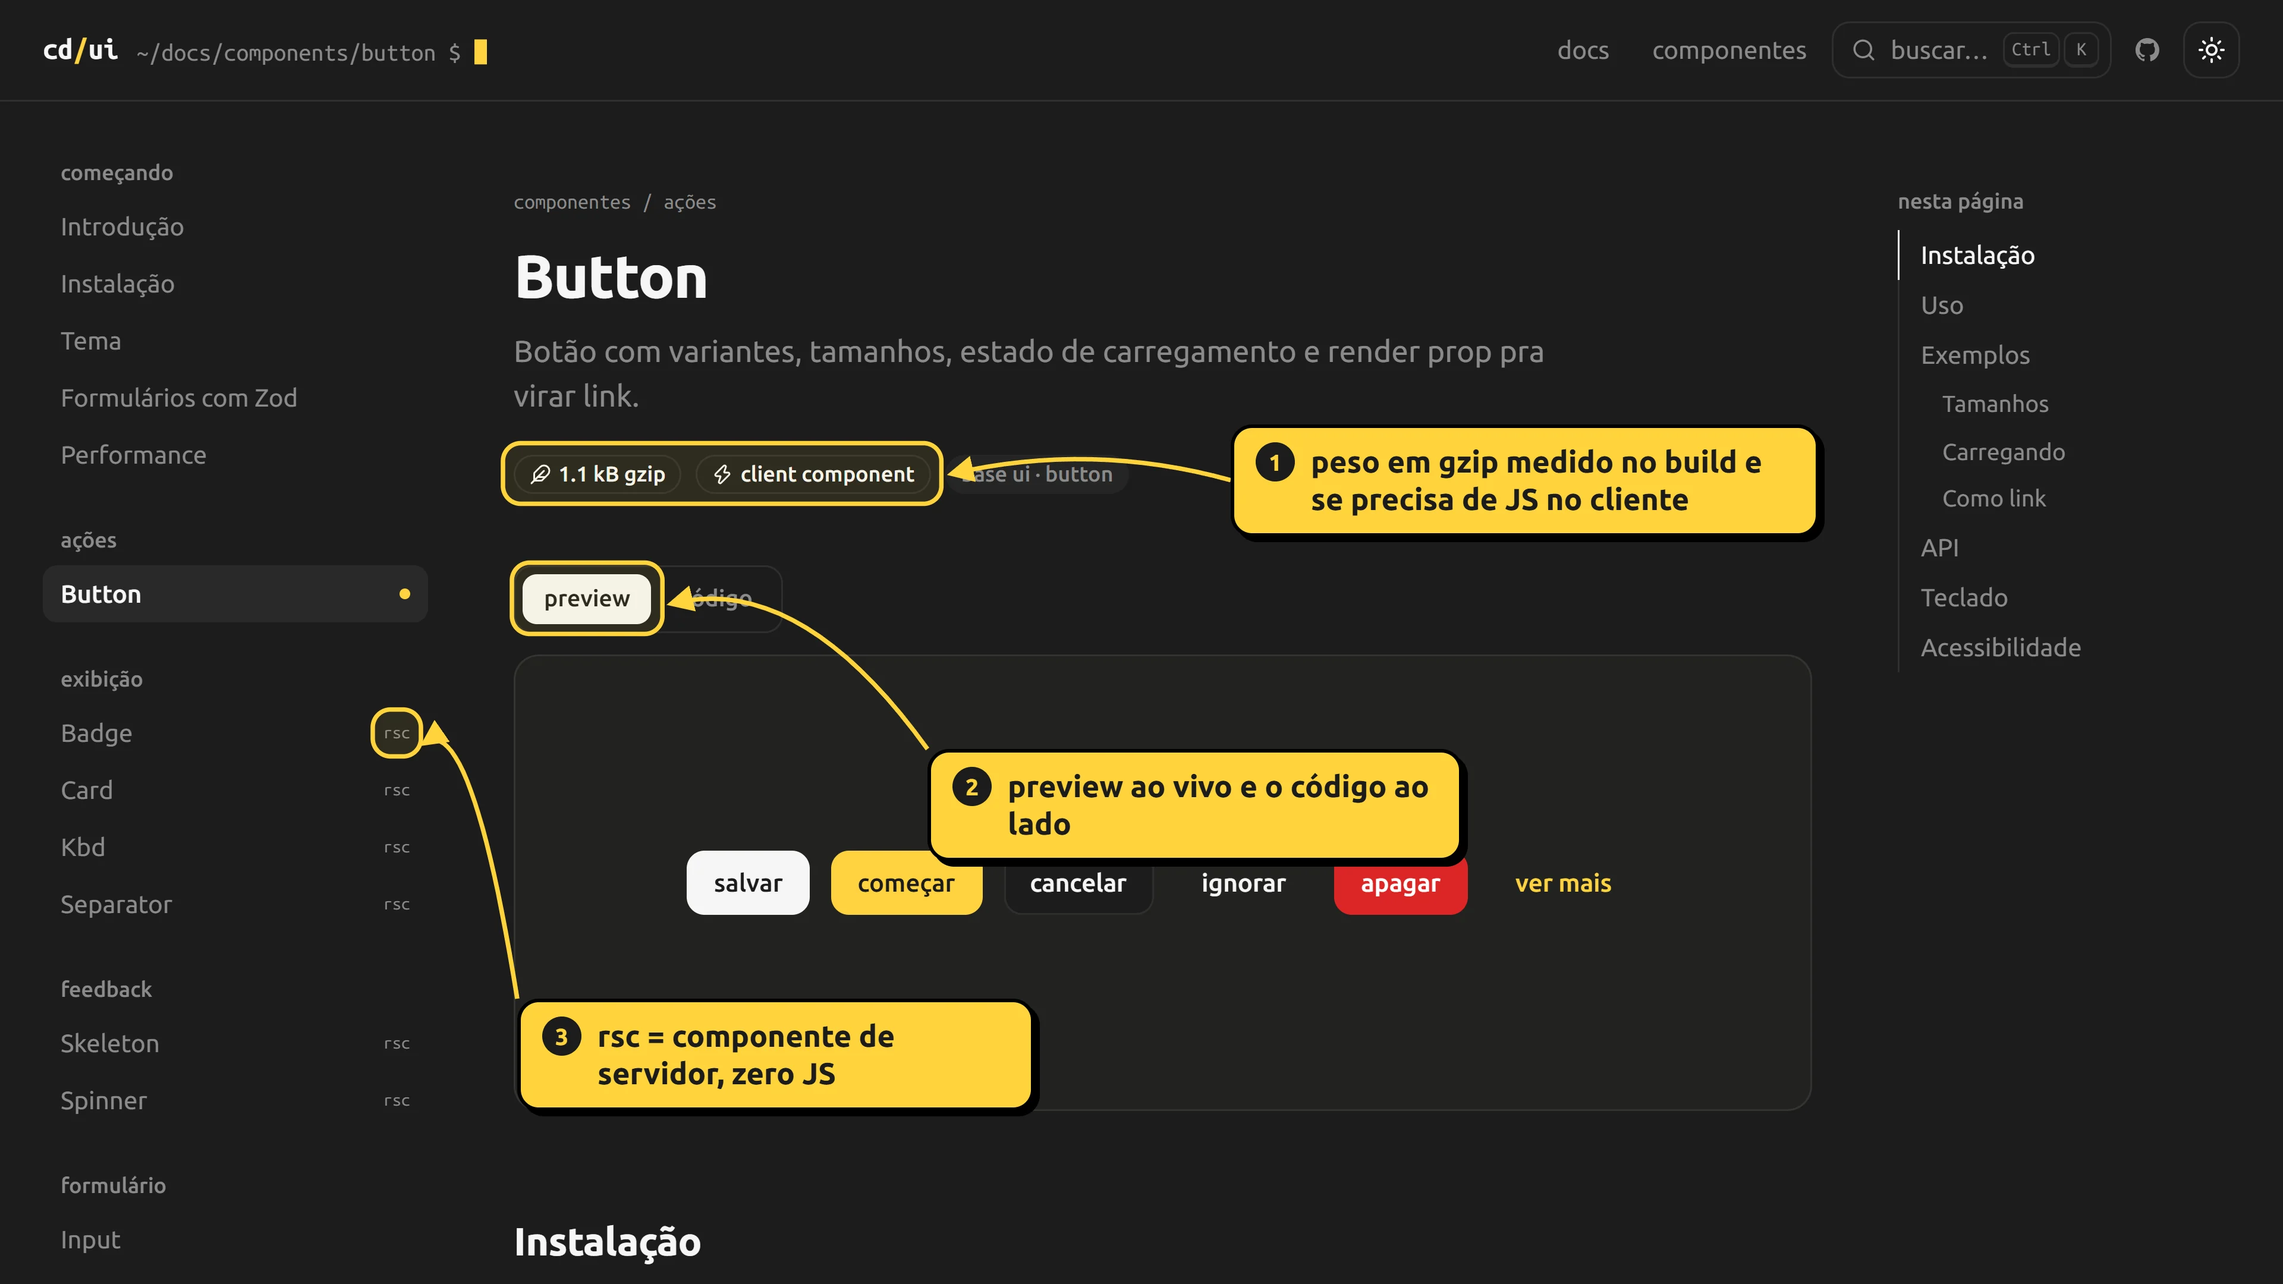
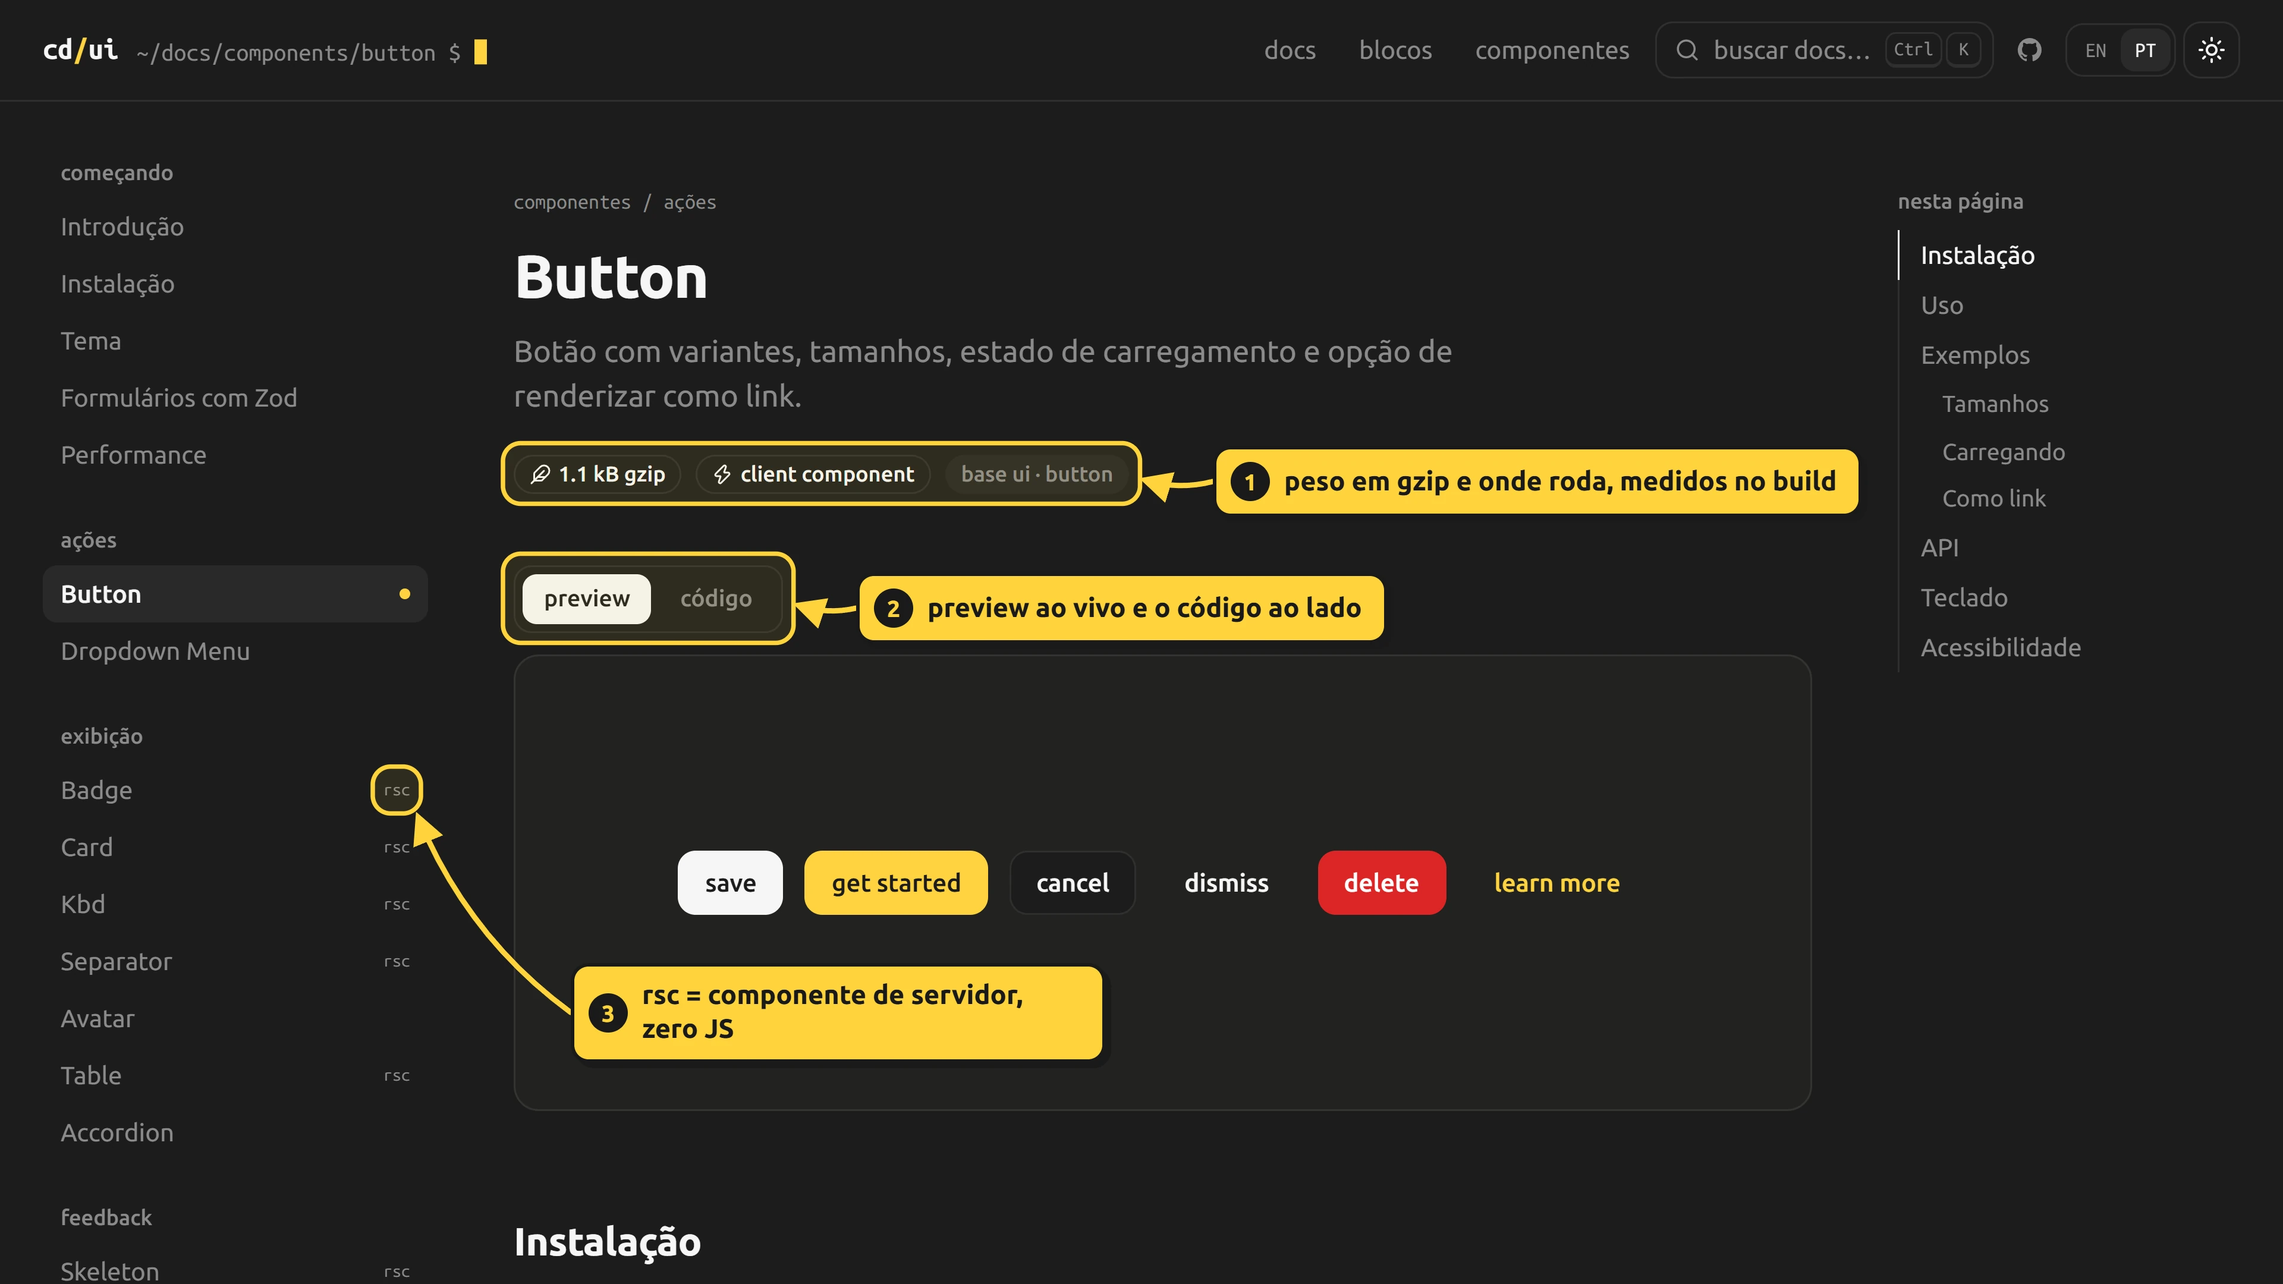
Refresh cd/ui case study: 27 components, blocks, new annotated prints; tighter article typography

diff --git a/src/app/globals.css b/src/app/globals.css
@@ -281,7 +281,11 @@
 		@apply text-2xl;
 	}
 	.markdown h2 {
-		@apply text-xl;
+		@apply mt-14 text-xl;
+	}
+	/* Título logo abaixo de título: sem o respiro de seção, senão o par vira um buraco. */
+	.markdown :is(h2, h3) + :is(h2, h3) {
+		@apply mt-4;
 	}
 	.markdown h3 {
 		@apply text-lg;
@@ -314,7 +318,7 @@
 		@apply border-l pl-4 text-muted-foreground italic;
 	}
 	.markdown :not(pre) > code {
-		@apply rounded-md bg-accent px-1.5 py-0.5 text-[0.9em];
+		@apply box-decoration-clone rounded-md bg-accent px-1 py-0.5 text-[0.9em] leading-none;
 	}
 	.markdown pre {
 		@apply overflow-x-auto rounded-xl border bg-card p-4 text-sm leading-6;
@@ -330,11 +334,18 @@
 		@apply flex items-center justify-between gap-2 border-b py-1 pr-1 pl-4 font-mono text-muted-foreground text-xs;
 	}
 	.markdown table {
-		@apply block w-full overflow-x-auto text-sm;
+		@apply block w-full overflow-x-auto text-sm tabular-nums;
 	}
+	/* Tabela como texto: só linhas horizontais, cabeçalho discreto, primeira coluna alinhada com a coluna do texto. */
 	.markdown th,
 	.markdown td {
-		@apply border px-3 py-1.5 text-left;
+		@apply border-b px-3 py-1.5 text-left;
+	}
+	.markdown :is(th, td):first-child {
+		@apply pl-0;
+	}
+	.markdown th {
+		@apply font-medium text-muted-foreground;
 	}
 	.markdown hr {
 		@apply my-8 border-border;

diff --git a/src/components/markdown.tsx b/src/components/markdown.tsx
@@ -72,7 +72,7 @@ function enhance(copy?: CopyLabels): Components {
 			return (
 				<div className="code">
 					<div className="code-bar">
-						<span>{lang}</span>
+						<span>{lang !== "text" && lang}</span>
 						{copy && (
 							<CodeCopy
 								done={copy.done}

diff --git a/content/projetos/cd-ui.pt.md b/content/projetos/cd-ui.pt.md
@@ -1,8 +1,8 @@
 ## tl;dr
 
-O cd/ui reúne 17 componentes React (Base UI + Tailwind v4) num **registry do shadcn**. Você instala o código direto no projeto e pode adaptar como quiser. O build mede o tamanho de cada componente em gzip; a média atual fica em cerca de 540 B.
+O cd/ui reúne 27 componentes React e 15 blocos (telas prontas), tudo em Base UI + Tailwind v4, num **registry do shadcn**. Você instala o código direto no projeto e pode adaptar como quiser. O build mede o tamanho de cada componente em gzip; a média atual fica em cerca de 600 B.
 
-[docs](https://cd-ui.vercel.app/docs) · [performance](https://cd-ui.vercel.app/docs/performance) · [código](https://github.com/di0rio/cd-ui)
+[docs](https://cd-ui.vercel.app/docs) · [blocos](https://cd-ui.vercel.app/blocks) · [performance](https://cd-ui.vercel.app/docs/performance) · [código](https://github.com/di0rio/cd-ui)
 
 ## o problema
 
@@ -46,15 +46,25 @@ npx shadcn@latest add @cd/button @cd/dialog
 
 as dependências (Base UI, Zod quando precisa) e os outros componentes necessários vêm juntos. e a home já mostra a ideia do projeto.
 
-![home do cd/ui: o prompt mostra a rota atual, ⌘K abre a busca, os bytes de cada componente são medidos no build e a instalação é pelo registry](/projects/cd-ui-home.webp)
+![home do cd/ui: o prompt mostra a rota atual, Ctrl K abre a busca e a média de 600 B em gzip é medida no build](/projects/cd-ui-home.webp)
 
 cada componente tem uma página própria, com preview, código, API, teclas e notas de acessibilidade. o selo de tamanho e o selo client/server saem da medição do build.
 
-![página do Button nas docs: selo com o tamanho em gzip, selo client ou servidor, abas de preview e código e o comando de instalação](/projects/cd-ui-docs.webp)
+![página do Button nas docs: selos com o tamanho em gzip e onde roda, abas de preview e código e o marcador rsc na barra lateral](/projects/cd-ui-docs.webp)
+
+além dos componentes, o cd/ui tem 15 blocos: telas inteiras prontas (5 de autenticação, 7 de marketing e 3 de app, como login, hero, preços, FAQ e configurações), montadas só com os componentes da biblioteca. um bloco instala com um comando e leva junto os componentes que usa:
+
+```bash
+npx shadcn@latest add https://cd-ui.vercel.app/r/login-01.json
+```
+
+a página de cada bloco mostra o preview em desktop, tablet e celular, o código e abre em tela cheia. as docs e os blocos existem em português e em inglês.
+
+![página do bloco login-01: o comando de instalação, as abas de preview e código com os tamanhos desktop, tablet e celular e o link pra abrir em tela cheia](/projects/cd-ui-blocks.webp)
 
 ## como funciona por trás
 
-o repositório tem duas fontes de verdade: os arquivos em `src/registry/cd/ui/*.tsx` (o que é distribuído) e o `src/docs/catalog.json` (nome, título, categoria e descrição de cada componente). o build lê os dois e gera tudo o que o site e a CLI precisam.
+o repositório tem duas fontes de verdade: os arquivos em `src/registry/cd/ui/*.tsx` (o que é distribuído) e o `src/docs/catalog.json` (nome, título, categoria e descrição de cada componente). os blocos seguem o mesmo esquema, em `src/registry/cd/blocks` e `src/blocks/catalog.json`. o build lê tudo isso e gera o que o site e a CLI precisam.
 
 ```text
 src/registry/cd/ui/*.tsx ─┬─► build-registry.mjs ─► registry.json ─► shadcn build ─► public/r/*.json
@@ -79,7 +89,15 @@ function importsOf(file) {
 
 o que não é `@/` nem `react` vira dependência npm. o que é `@/registry/cd/ui/outro` vira dependência de registry (a URL do outro componente). o item `theme` copia os tokens do `globals.css`, os blocos `:root` e `.dark`.
 
-resultado: se o componente passa a importar outra coisa, o registry já sabe. não tem como esquecer de atualizar uma lista.
+resultado: se o componente passa a importar outra coisa, o registry já sabe. não tem como esquecer de atualizar uma lista. o mesmo vale pros blocos: os componentes que eles importam viram dependências de registry, então instalar um bloco instala tudo o que ele usa.
+
+### o que aprendi instalando num projeto de verdade
+
+depois de instalar o cd/ui num projeto de fora, apareceram três problemas que o meu próprio site não mostrava:
+
+- **o `cn` era o do shadcn.** sem uma URL pro `utils`, o shadcn cai no item embutido dele, que instala `export { cn } from "cn"`. agora o cd/ui entrega o próprio item `utils` (clsx + tailwind-merge) e todo componente depende dele.
+- **Server Component não chamava `buttonVariants`.** ele morava no `button.tsx`, que é `"use client"`, e uma função exportada de um módulo client não roda no servidor. mudou pra `button-variants.ts`, sem `"use client"`, e o `button.tsx` só reexporta. no registry, arquivos irmãos que o componente importa e que não estão no catálogo viajam no mesmo item.
+- **os blocos importam do caminho do registry.** eles usam `@/registry/cd/ui/button` e a CLI reescreve esse caminho pro alias do `components.json` do projeto de quem instala.
 
 ### o peso é medido, não chutado
 
@@ -107,29 +125,39 @@ o mesmo script marca cada componente como client ou servidor, só olhando se o a
 client: /^["']use client["']/.test(source),
 ```
 
-da medição saem os números do site. os 17 componentes, do menor ao maior:
+da medição saem os números do site. os 27 componentes, do menor ao maior:
 
 | componente | gzip | roda onde |
 | --- | --- | --- |
 | skeleton | 234 B | servidor |
 | kbd | 282 B | servidor |
-| separator | 285 B | servidor |
+| separator | 284 B | servidor |
 | card | 377 B | servidor |
-| spinner | 400 B | servidor |
-| input | 438 B | client |
+| avatar | 383 B | client |
+| spinner | 398 B | servidor |
 | textarea | 445 B | client |
 | field | 451 B | client |
 | badge | 453 B | servidor |
 | switch | 474 B | client |
+| progress | 475 B | client |
 | tooltip | 482 B | client |
+| input | 516 B | client |
+| alert | 530 B | servidor |
+| radio-group | 535 B | client |
 | form | 553 B | client |
+| table | 586 B | servidor |
+| popover | 588 B | client |
 | tabs | 628 B | client |
+| slider | 668 B | client |
 | checkbox | 702 B | client |
-| dialog | 910 B | client |
+| accordion | 721 B | client |
+| dialog | 945 B | client |
 | select | 990 B | client |
 | button | 1,1 kB | client |
+| dropdown-menu | 1,1 kB | client |
+| toast | 1,3 kB | client |
 
-média de cerca de 540 B. 6 dos 17 (badge, card, kbd, separator, skeleton e spinner) não mandam JS.
+média de cerca de 600 B. 8 dos 27 (alert, badge, card, kbd, separator, skeleton, spinner e table) não mandam JS.
 
 ### formulário com Zod sem carregar o Zod inteiro
 
@@ -182,6 +210,6 @@ const schema = z.object({
 
 ## status e próximos passos
 
-o cd/ui está na v0.2, com 17 componentes, tema claro e escuro e o site de docs no ar. um detalhe pra ser honesto sobre a medição: ela conta o código do cd/ui, não o Base UI nem o Zod que vêm junto.
+o cd/ui está na v0.2, com 27 componentes, 15 blocos, tema claro e escuro e o site de docs no ar, em português e inglês. é open source: licença MIT, guia de contribuição e CI que roda lint, tipos e build em todo pull request. um detalhe pra ser honesto sobre a medição: ela conta o código do cd/ui, não o Base UI nem o Zod que vêm junto.
 
 pra adicionar um componente o caminho é curto: o arquivo em `src/registry/cd/ui`, a entrada no catálogo, os exemplos e a documentação, e `bun run registry:build` gera o resto.

diff --git a/content/projetos/cd-ui.en.md b/content/projetos/cd-ui.en.md
@@ -1,8 +1,8 @@
 ## tl;dr
 
-cd/ui ships 17 React components (Base UI + Tailwind v4) as a **shadcn registry**. Install the code into your project and adapt it as you like. Every build measures each component’s gzip size; the current average is about 540 B.
+cd/ui ships 27 React components and 15 blocks (ready-made screens), all on Base UI + Tailwind v4, as a **shadcn registry**. Install the code into your project and adapt it as you like. Every build measures each component’s gzip size; the current average is about 600 B.
 
-[docs](https://cd-ui.vercel.app/docs) · [performance](https://cd-ui.vercel.app/docs/performance) · [code](https://github.com/di0rio/cd-ui)
+[docs](https://cd-ui.vercel.app/docs) · [blocks](https://cd-ui.vercel.app/blocks) · [performance](https://cd-ui.vercel.app/docs/performance) · [code](https://github.com/di0rio/cd-ui)
 
 ## the problem
 
@@ -46,15 +46,25 @@ npx shadcn@latest add @cd/button @cd/dialog
 
 the dependencies (Base UI, Zod when needed) and the other components it needs come along. and the home page already shows the idea of the project.
 
-![cd/ui home: the prompt shows the current route, ⌘K opens search, each component's bytes are measured at build time and install goes through the registry](/projects/cd-ui-home.webp)
+![cd/ui home: the prompt shows the current route, Ctrl K opens search and the 600 B gzip average is measured at build time](/projects/cd-ui-home.webp)
 
 every component has its own page, with preview, code, API, keys and accessibility notes. the size badge and the client/server badge come from the build measurement.
 
-![the Button docs page: a gzip size badge, a client or server badge, preview and code tabs and the install command](/projects/cd-ui-docs.webp)
+![the Button docs page: badges with the gzip size and where it runs, preview and code tabs and the rsc marker in the sidebar](/projects/cd-ui-docs.webp)
+
+besides the components, cd/ui has 15 blocks: complete ready-made screens (5 for auth, 7 for marketing and 3 for apps, like login, hero, pricing, FAQ and settings), built only from the library's own components. a block installs with one command and brings the components it uses along:
+
+```bash
+npx shadcn@latest add https://cd-ui.vercel.app/r/login-01.json
+```
+
+each block page shows the preview at desktop, tablet and phone sizes, the code, and opens full screen. the docs and the blocks exist in Portuguese and in English.
+
+![the login-01 block page: the install command, the preview and code tabs with desktop, tablet and phone sizes and the link to open full screen](/projects/cd-ui-blocks.webp)
 
 ## how it works under the hood
 
-the repository has two sources of truth: the files in `src/registry/cd/ui/*.tsx` (what gets distributed) and `src/docs/catalog.json` (name, title, category and description of each component). the build reads both and generates everything the site and the CLI need.
+the repository has two sources of truth: the files in `src/registry/cd/ui/*.tsx` (what gets distributed) and `src/docs/catalog.json` (name, title, category and description of each component). blocks follow the same scheme, in `src/registry/cd/blocks` and `src/blocks/catalog.json`. the build reads all of it and generates what the site and the CLI need.
 
 ```text
 src/registry/cd/ui/*.tsx ─┬─► build-registry.mjs ─► registry.json ─► shadcn build ─► public/r/*.json
@@ -79,7 +89,15 @@ function importsOf(file) {
 
 anything that isn't `@/` or `react` becomes an npm dependency. anything under `@/registry/cd/ui/other` becomes a registry dependency (the URL of the other component). the `theme` item copies the tokens from `globals.css`, the `:root` and `.dark` blocks.
 
-result: if a component starts importing something else, the registry already knows. there's no list to forget to update.
+result: if a component starts importing something else, the registry already knows. there's no list to forget to update. the same goes for blocks: the components they import become registry dependencies, so installing a block installs everything it uses.
+
+### what I learned installing it into a real project
+
+after installing cd/ui into a project outside the repo, three problems showed up that my own site never showed:
+
+- **`cn` was shadcn's.** without a URL for `utils`, shadcn falls back to its built-in item, which installs `export { cn } from "cn"`. now cd/ui ships its own `utils` item (clsx + tailwind-merge) and every component depends on it.
+- **Server Components couldn't call `buttonVariants`.** it lived in `button.tsx`, which is `"use client"`, and a function exported from a client module doesn't run on the server. it moved to `button-variants.ts`, with no `"use client"`, and `button.tsx` just re-exports it. in the registry, sibling files a component imports that aren't in the catalog travel in the same item.
+- **blocks import from the registry path.** they use `@/registry/cd/ui/button` and the CLI rewrites that path to the alias in the `components.json` of whoever installs.
 
 ### the weight is measured, not guessed
 
@@ -107,29 +125,39 @@ the same script flags each component as client or server just by checking whethe
 client: /^["']use client["']/.test(source),
 ```
 
-the numbers on the site come from that measurement. all 17 components, smallest to largest:
+the numbers on the site come from that measurement. all 27 components, smallest to largest:
 
 | component | gzip | runs on |
 | --- | --- | --- |
 | skeleton | 234 B | server |
 | kbd | 282 B | server |
-| separator | 285 B | server |
+| separator | 284 B | server |
 | card | 377 B | server |
-| spinner | 400 B | server |
-| input | 438 B | client |
+| avatar | 383 B | client |
+| spinner | 398 B | server |
 | textarea | 445 B | client |
 | field | 451 B | client |
 | badge | 453 B | server |
 | switch | 474 B | client |
+| progress | 475 B | client |
 | tooltip | 482 B | client |
+| input | 516 B | client |
+| alert | 530 B | server |
+| radio-group | 535 B | client |
 | form | 553 B | client |
+| table | 586 B | server |
+| popover | 588 B | client |
 | tabs | 628 B | client |
+| slider | 668 B | client |
 | checkbox | 702 B | client |
-| dialog | 910 B | client |
+| accordion | 721 B | client |
+| dialog | 945 B | client |
 | select | 990 B | client |
 | button | 1.1 kB | client |
+| dropdown-menu | 1.1 kB | client |
+| toast | 1.3 kB | client |
 
-average of about 540 B. 6 of the 17 (badge, card, kbd, separator, skeleton and spinner) ship no JS.
+average of about 600 B. 8 of the 27 (alert, badge, card, kbd, separator, skeleton, spinner and table) ship no JS.
 
 ### Zod forms without loading all of Zod
 
@@ -182,6 +210,6 @@ const schema = z.object({
 
 ## status and next steps
 
-cd/ui is at v0.2, with 17 components, light and dark themes and the docs site live. one detail to be honest about the measurement: it counts cd/ui's code, not the Base UI or Zod that come along.
+cd/ui is at v0.2, with 27 components, 15 blocks, light and dark themes and the docs site live, in Portuguese and English. it's open source: MIT license, a contributing guide and CI that runs lint, types and build on every pull request. one detail to be honest about the measurement: it counts cd/ui's code, not the Base UI or Zod that come along.
 
 adding a component is a short path: the file in `src/registry/cd/ui`, the catalog entry, the examples and the docs, and `bun run registry:build` generates the rest.
